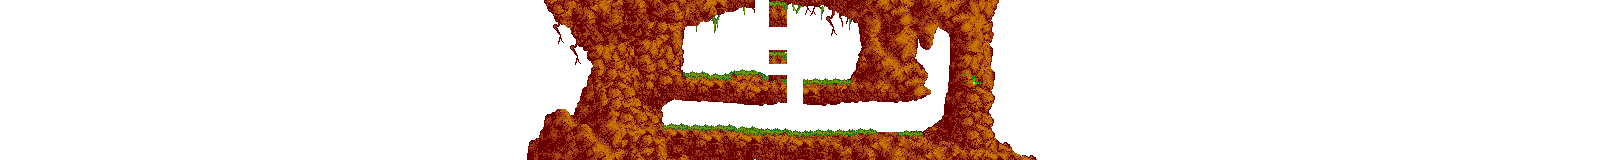
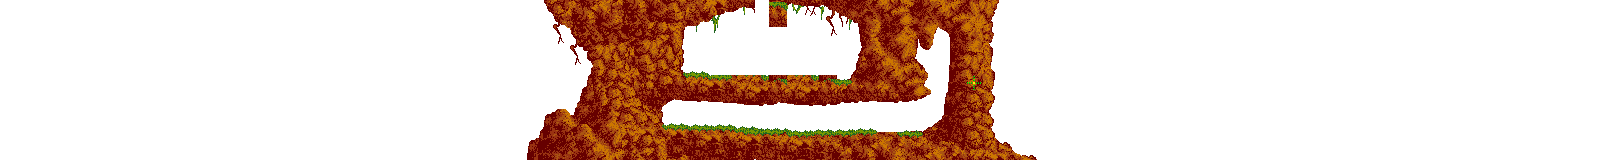
Bashers & Miners!

Changed region(s): [[0.4375, 0.4375, 0.5312, 0.6562], [0.4688, 0.3125, 0.5, 0.4062]]

diff --git a/Lemming.cs b/Lemming.cs
@@ -17,7 +17,8 @@ namespace Lemmings2024
         public const string EVENT_EXPLODE = "LemmingExplode";
         public const string EVENT_START_DIG_LINE = "LemmingStartDigLine";
         public const string EVENT_DIG_LINE = "LemmingDigLine";
-        public const string EVENT_DIG_CHUNK = "LemmingDigChunk";
+        public const string EVENT_BASH = "LemmingBash";
+        public const string EVENT_MINE = "LemmingMine";
         public const string EVENT_SAVED = "LemmingSaved";
 
         public const string STATE_WALK = "Walk";
@@ -32,6 +33,7 @@ namespace Lemmings2024
         public const string STATE_FLOATER = "Floater";
         public const string STATE_BUILDER = "Builder";
         public const string STATE_BASHER = "Basher";
+        public const string STATE_MINER = "Miner";
         public const string STATE_SHRUG = "Shrug";
         public const string STATE_SAVED = "Saved";
 
@@ -48,6 +50,7 @@ namespace Lemmings2024
         public const string ANIMATION_FLOATER = "Floater";
         public const string ANIMATION_BUILDER = "Builder";
         public const string ANIMATION_BASHER = "Basher";
+        public const string ANIMATION_MINER = "Miner";
         public const string ANIMATION_SHRUG = "Shrug";
         public const string ANIMATION_SAVED = "Saved";
 
@@ -70,6 +73,7 @@ namespace Lemmings2024
         public bool IsBlocker => _simpleStateMachine.CurrentState == STATE_STOP;
         public bool IsBuilder => _simpleStateMachine.CurrentState == STATE_BUILDER;
         public bool IsBasher => _simpleStateMachine.CurrentState == STATE_BASHER;
+        public bool IsMiner => _simpleStateMachine.CurrentState == STATE_MINER;
         public bool IsSaved => _simpleStateMachine.CurrentState == STATE_SAVED;
 
         public bool IsClimber { get; set; }
@@ -116,6 +120,7 @@ namespace Lemmings2024
             _simpleStateMachine.AddState(STATE_FLOATER, OnEnter: FloaterEnter, OnUpdate: FloaterUpdate);
             _simpleStateMachine.AddState(STATE_BUILDER, OnEnter: BuilderEnter, OnUpdate: BuilderUpdate);
             _simpleStateMachine.AddState(STATE_BASHER, OnEnter: BasherEnter, OnUpdate: BasherUpdate);
+            _simpleStateMachine.AddState(STATE_MINER, OnEnter: MinerEnter, OnUpdate: MinerUpdate);
             _simpleStateMachine.AddState(STATE_SHRUG, OnEnter: ShrugEnter);
             _simpleStateMachine.AddState(STATE_SAVED, OnEnter: SavedEnter);
 
@@ -216,6 +221,15 @@ namespace Lemmings2024
             return true;
         }
 
+        public bool Mine()
+        {
+            if (IsBlocker || IsFalling || IsMiner)
+                return false;
+
+            SetState(STATE_MINER);
+            return true;
+        }
+
         private bool _isExploding;
         public bool IsExploding => _isExploding;
         public bool Explode(float delay = 0f)
@@ -271,6 +285,18 @@ namespace Lemmings2024
             return color.A > 0;
         }
 
+        private bool IsOnWalkableGround()
+        {
+            return IsOnWalkableGround(Point.Zero);
+        }
+
+        private bool IsOnWalkableGround(Point offset)
+        {
+            int indexInLevelTexture = IndexInLevelData(PixelPositionX + offset.X, PixelPositionY + offset.Y);
+            Color groundColor = _currentLevel.MaskTextureData[indexInLevelTexture];
+            return IsWalkable(groundColor);
+        }
+
         #region States
         private void WalkEnter()
         {
@@ -281,14 +307,9 @@ namespace Lemmings2024
 
         private void WalkUpdate(GameTime time, float arg2)
         {
-            Color groundColor;
-
-            int offsetX = PixelPositionX;
-            int indexInLevelTexture = IndexInLevelData(offsetX, PixelPositionY);
-            groundColor = _currentLevel.MaskTextureData[indexInLevelTexture];
-            if (IsWalkable(groundColor))
+            if (IsOnWalkableGround())
             {
-                int positionChange = FindUpwardPosition(offsetX, PixelPositionY);
+                int positionChange = FindUpwardPosition(PixelPositionX, PixelPositionY);
                 if (positionChange <= WALL_HEIGHT)
                 {
                     MoveBy(new Vector2(0, -positionChange));
@@ -307,7 +328,7 @@ namespace Lemmings2024
             }
             else
             {
-                int positionChange = FindDownwardPosition(offsetX, PixelPositionY);
+                int positionChange = FindDownwardPosition(PixelPositionX, PixelPositionY);
                 if (positionChange < WALL_HEIGHT)
                 {
                     MoveBy(new Vector2(0, positionChange));
@@ -454,6 +475,11 @@ namespace Lemmings2024
 
         private void ExplodeUpdate(GameTime gameTime, float stateTime)
         {
+            if (PixelPositionY >= _currentLevel.Texture.Height)
+            {
+                return;
+            }
+
             Color groundColor;
 
             int offsetX = PixelPositionX;
@@ -572,15 +598,6 @@ namespace Lemmings2024
             }
 
             int offset = _currentScale.X > 0 ? 0 : SpriteSheet.FrameWidth - SpriteSheet.DefaultPivot.X * 2 - 1;
-            //for (int i = 1; i < 5; i++)
-            //{
-            //    if (IsWalkable(_currentLevel.GetMaskPixel(new Point(PixelPositionX + offset - i * (int)_currentScale.X, PixelPositionY - 10))))
-            //    {
-            //        TurnAround();
-            //        SetState(STATE_FALL);
-            //        return;
-            //    }
-            //}
             if (!IsWalkable(_currentLevel.GetMaskPixel(new Point(PixelPositionX + offset, PixelPositionY - CLIMBER_TEST))))
             {
                 SetState(STATE_END_CLIMB);
@@ -589,7 +606,6 @@ namespace Lemmings2024
 
         private bool CanClimb()
         {
-            //int offset = _currentScale.X > 0 ? 0 : SpriteSheet.FrameWidth - SpriteSheet.DefaultPivot.X * 2 - 1;
             for (int i = 1; i < 5; i++)
             {
                 if (IsWalkable(_currentLevel.GetMaskPixel(new Point(PixelPositionX - i * (int)_currentScale.X, PixelPositionY - 10))))
@@ -706,17 +722,81 @@ namespace Lemmings2024
         {
             if (frameIndex >= 11 && frameIndex <= 15 || frameIndex >= 27)
             {
-                MoveBy(new Vector2(1, 0));
+                MoveBy(new Vector2(_currentScale.X, 0));
             }
 
             if (frameIndex == 3 || frameIndex == 19)
             {
-                EventsManager.FireEvent(EVENT_DIG_CHUNK, this);
+                if (CanDig(new Point(-1, 2)))
+                {
+                    EventsManager.FireEvent(EVENT_BASH, this);
+                }
+                else
+                {
+                    SetState(STATE_WALK);
+                }
             }
+        }
+
+        private bool CanDig(Point offset)
+        {
+            int startingIndex = (PixelPositionY + offset.Y) * _currentLevel.Texture.Width + PixelPositionX + offset.X * (int)_currentScale.X;
+            for (int x = 0; x < 4; x++)
+            {
+                for (int y = 0; y < 9; y++)
+                {
+                    int index = startingIndex + x * (int)_currentScale.X - y * _currentLevel.Texture.Width;
+                    if (index >= 0 && _currentLevel.MaskTextureData[index].A > 0)
+                        return true;
+                }
+            }
+
+            return false;
         }
 
         private void BasherUpdate(GameTime gameTime, float stateTime)
         {
+            if (!IsOnWalkableGround())
+            {
+                SetState(STATE_FALL);
+            }
+        }
+
+        private void MinerEnter()
+        {
+            SetAnimation(ANIMATION_MINER, onAnimationFrame: OnMinerFrame, onAnimationEnd: OnMinerEnd);
+            SetSpeedMultiplier(0f);
+            MoveBy(new Vector2(2, 1));
+        }
+
+        private void OnMinerEnd()
+        {
+            MoveBy(new Vector2(0, 1));
+            if (!IsOnWalkableGround())
+            {
+                SetState(STATE_FALL);
+            }
+        }
+
+        private void OnMinerFrame(int frameIndex)
+        {
+            if (frameIndex == 2)
+            {
+                EventsManager.FireEvent(EVENT_MINE, this);
+            }
+
+            if (frameIndex == 15)
+            {
+                MoveBy(new Vector2(2 * _currentScale.X, 0));
+            }
+        }
+
+        private void MinerUpdate(GameTime gameTime, float stateTime)
+        {
+            //if (!IsOnWalkableGround(new Point(0, 0)))
+            //{
+            //    SetState(STATE_FALL);
+            //}
         }
 
         private void ShrugEnter()
@@ -732,7 +812,7 @@ namespace Lemmings2024
             //int offset = _currentScale.X > 0 ? 0 : SpriteSheet.FrameWidth - SpriteSheet.DefaultPivot.X * 2 - 1;
             //SpriteBatch.DrawRectangle(new Vector2(PixelPositionX + offset, PixelPositionY - 7), Vector2.Zero, Color.Red);
 
-            //SpriteBatch.DrawRectangle(new Vector2(PixelPositionX - (int)_currentScale.X, PixelPositionY - 10), new Vector2((int)_currentScale.X * 5, 0), Color.Yellow);
+            //SpriteBatch.DrawRectangle(new Vector2(PixelPositionX + 2, PixelPositionY-10), new Vector2(4, 9), Color.Yellow);
         }
     }
 }

diff --git a/Lemmings2024.cs b/Lemmings2024.cs
@@ -37,8 +37,11 @@ namespace Lemmings2024
         private Texture2D _explodeTexture;
         private Color[] _explodeTextureData;
 
-        private Texture2D _digTexture;
-        private Color[] _digTextureData;
+        private Texture2D _bashTexture;
+        private Color[] _bashTextureData;
+
+        private Texture2D _mineTexture;
+        private Color[] _mineTextureData;
 
         private Texture2D _preGameBackground;
         private Texture2D _postGameBackground;
@@ -98,7 +101,8 @@ namespace Lemmings2024
             EventsManager.ListenTo<Lemming>(Lemming.EVENT_EXPLODE, OnLemmingExplode);
             EventsManager.ListenTo<Lemming>(Lemming.EVENT_START_DIG_LINE, OnLemmingStartDigLine);
             EventsManager.ListenTo<Lemming>(Lemming.EVENT_DIG_LINE, OnLemmingDigLine);
-            EventsManager.ListenTo<Lemming>(Lemming.EVENT_DIG_CHUNK, OnLemmingDigChunk);
+            EventsManager.ListenTo<Lemming>(Lemming.EVENT_BASH, OnLemmingBash);
+            EventsManager.ListenTo<Lemming>(Lemming.EVENT_MINE, OnLemmingMine);
             EventsManager.ListenTo<Lemming>(Lemming.EVENT_SAVED, OnLemmingSaved);
 
             _hudActions = new (Action<int>, ClickType)[]
@@ -197,6 +201,7 @@ namespace Lemmings2024
             _lemmingSprite.RegisterAnimation(Lemming.ANIMATION_FLOATER, 40, 43, Lemming.BASE_SPEED, new Point(8, 17), SpriteSheet.AnimationType.PingPong);
             _lemmingSprite.RegisterAnimation(Lemming.ANIMATION_BUILDER, 80, 95, Lemming.BASE_SPEED, new Point(8, 13));
             _lemmingSprite.RegisterAnimation(Lemming.ANIMATION_BASHER, 96, 127, Lemming.BASE_SPEED);
+            _lemmingSprite.RegisterAnimation(Lemming.ANIMATION_MINER, 136, 159, Lemming.BASE_SPEED, new Point(8, 12));
             _lemmingSprite.RegisterAnimation(Lemming.ANIMATION_SHRUG, 9, 15, Lemming.BASE_SPEED);
             _lemmingSprite.RegisterAnimation(Lemming.ANIMATION_SAVED, 19, 25, Lemming.BASE_SPEED);
 
@@ -223,9 +228,13 @@ namespace Lemmings2024
             _explodeTextureData = new Color[_explodeTexture.Width * _explodeTexture.Height];
             _explodeTexture.GetData(_explodeTextureData);
 
-            _digTexture = Content.Load<Texture2D>("dig_mask");
-            _digTextureData = new Color[_digTexture.Width * _digTexture.Height];
-            _digTexture.GetData(_digTextureData);
+            _bashTexture = Content.Load<Texture2D>("dig_mask");
+            _bashTextureData = new Color[_bashTexture.Width * _bashTexture.Height];
+            _bashTexture.GetData(_bashTextureData);
+
+            _mineTexture = Content.Load<Texture2D>("mine-mask");
+            _mineTextureData = new Color[_mineTexture.Width * _mineTexture.Height];
+            _mineTexture.GetData(_mineTextureData);
 
             _currentLevel = new Level(Content, "level1.data");
             SetState(STATE_PRE_GAME);
@@ -294,9 +303,14 @@ namespace Lemmings2024
             _currentLevel.Dig(new Point(lemming.PixelPositionX - LINE_DIG_LENGTH / 2, lemming.PixelPositionY), LINE_DIG_LENGTH);
         }
 
-        private void OnLemmingDigChunk(Lemming lemming)
+        private void OnLemmingBash(Lemming lemming)
         {
-            _currentLevel.Dig(_digTexture, _digTextureData, new Point(lemming.PixelPositionX - 1, lemming.PixelPositionY - _digTexture.Height));
+            _currentLevel.Dig(_bashTexture, _bashTextureData, new Point(lemming.PixelPositionX - _bashTexture.Width/2 + (_bashTexture.Width / 2 - 1) * (int)lemming.CurrentScale.X, lemming.PixelPositionY - _bashTexture.Height));
+        }
+
+        private void OnLemmingMine(Lemming lemming)
+        {
+            _currentLevel.Dig(_mineTexture, _mineTextureData, new Point(lemming.PixelPositionX, lemming.PixelPositionY - _mineTexture.Height + 1), flipHorizontal: true);
         }
 
         private void ShowHatch(int index)
@@ -394,22 +408,28 @@ namespace Lemmings2024
 
         private void StartLevel()
         {
+            _letsgoSoundInstance.Play();
+            _hatches[0].DelayAction(OpenHatches, (float)_letsgoSound.Duration.TotalSeconds);
+        }
+
+        private void OpenHatches()
+        {
+            _hatchSoundInstance.Play();
             for (int i = 0; i < _currentLevel.HatchPositions.Length; i++)
             {
                 OpenHatch(i, onHatchOpened: (i == 0 ? OnHatchOpen : null));
             }
-            _hatchSoundInstance.Play();
         }
 
         private void OnHatchOpen()
         {
             StartSpawn();
+            _lemmingLevel1MusicInstance.Play();
         }
 
         private void StartSpawn()
         {
             _isSpawning = true;
-            _letsgoSoundInstance.Play();
         }
 
         private void GameExit()
@@ -487,7 +507,6 @@ namespace Lemmings2024
                     SpawnLemming(_hatchIndex, 1);
                     _hatchIndex = (_hatchIndex + 1) % _currentLevel.HatchPositions.Length;
                     _spawnCount++;
-                    //_lemmingLevel1MusicInstance.Play();
                 }
             }
         }
@@ -799,9 +818,12 @@ namespace Lemmings2024
 
         public bool LemmingActionMiner(Lemming[] lemmings)
         {
-            // TODO
-            return true;
-
+            foreach (var lemming in lemmings)
+            {
+                if (lemming.Mine())
+                    return true;
+            }
+            return false;
         }
 
         public bool LemmingActionDigger(Lemming[] lemmings)

diff --git a/Level.cs b/Level.cs
@@ -135,17 +135,21 @@ namespace Lemmings2024
             }
         }
 
-        public void Dig(Texture2D digTexture, Color[] digTextureData, Point position)
+        public void Dig(Texture2D digTexture, Color[] digTextureData, Point position, bool flipHorizontal = false)
         {
             int startIndex = position.Y * _texture.Width + position.X;
             for (int i = 0; i < digTextureData.Length; i++)
             {
-                int textureRelativeIndex = i % digTexture.Width + (i / digTexture.Width) * _texture.Width;
+                int x = i % digTexture.Width;
+                if (flipHorizontal)
+                    x = - x;
+                int textureRelativeIndex = x + (i / digTexture.Width) * _texture.Width;
                 if (digTextureData[i].A > 0)
                 {
                     if (startIndex + textureRelativeIndex < _textureData.Length)
                     {
                         _textureData[startIndex + textureRelativeIndex] = Color.Transparent;
+                        _maskTextureData[startIndex + textureRelativeIndex] = Color.Transparent;
                     }
                 }
             }
